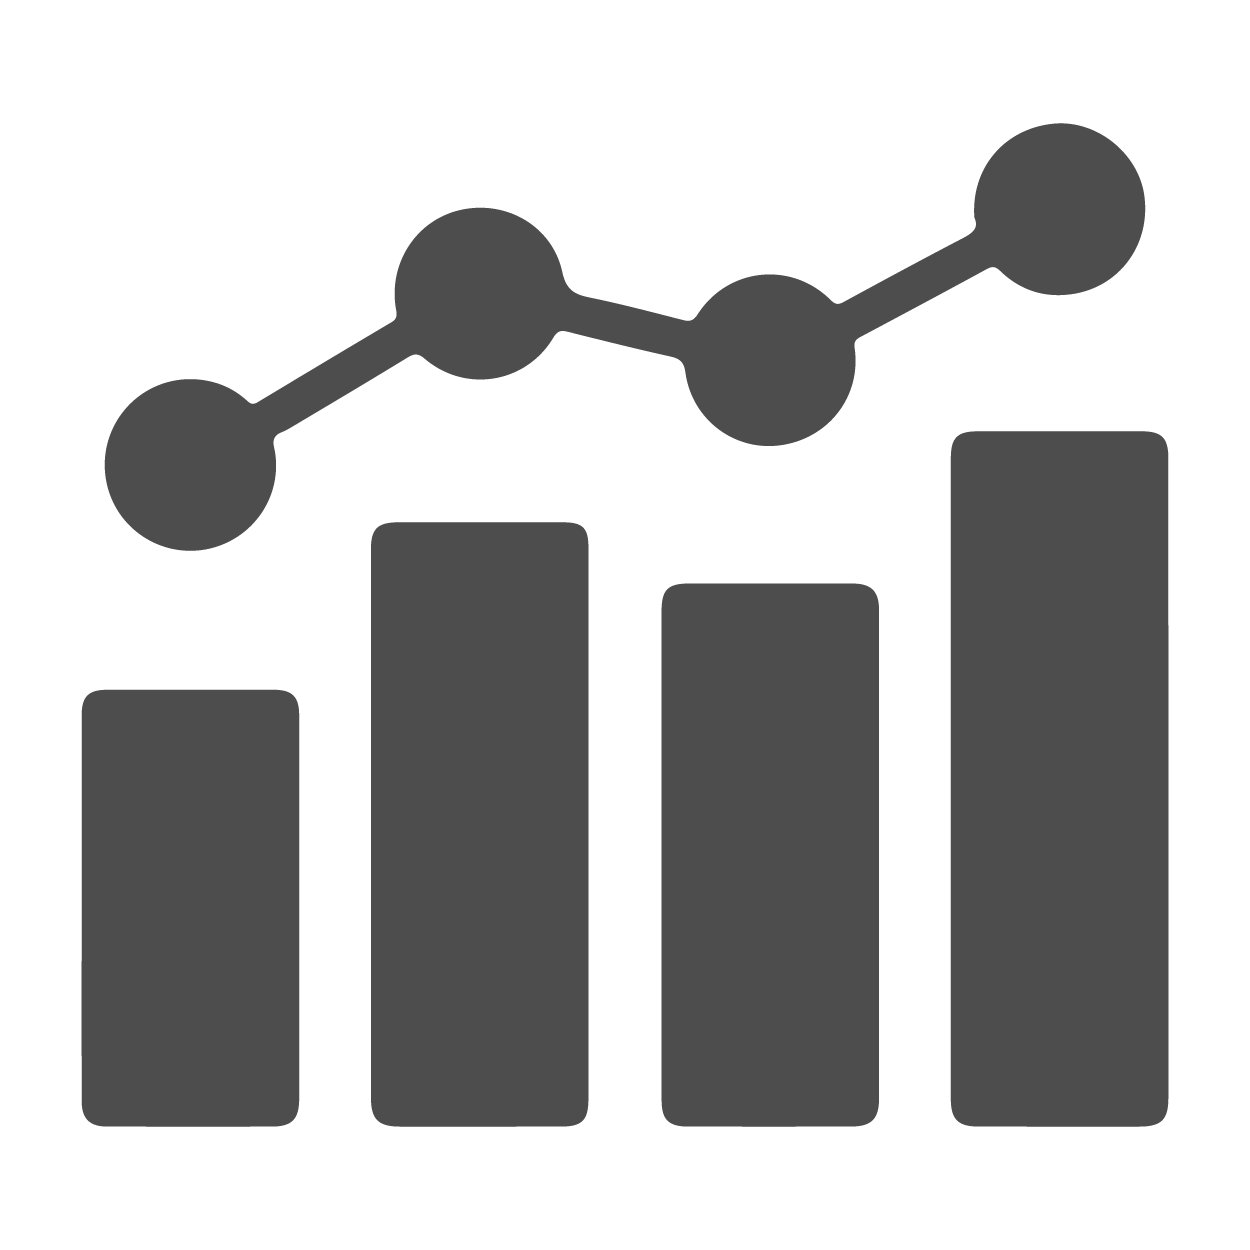
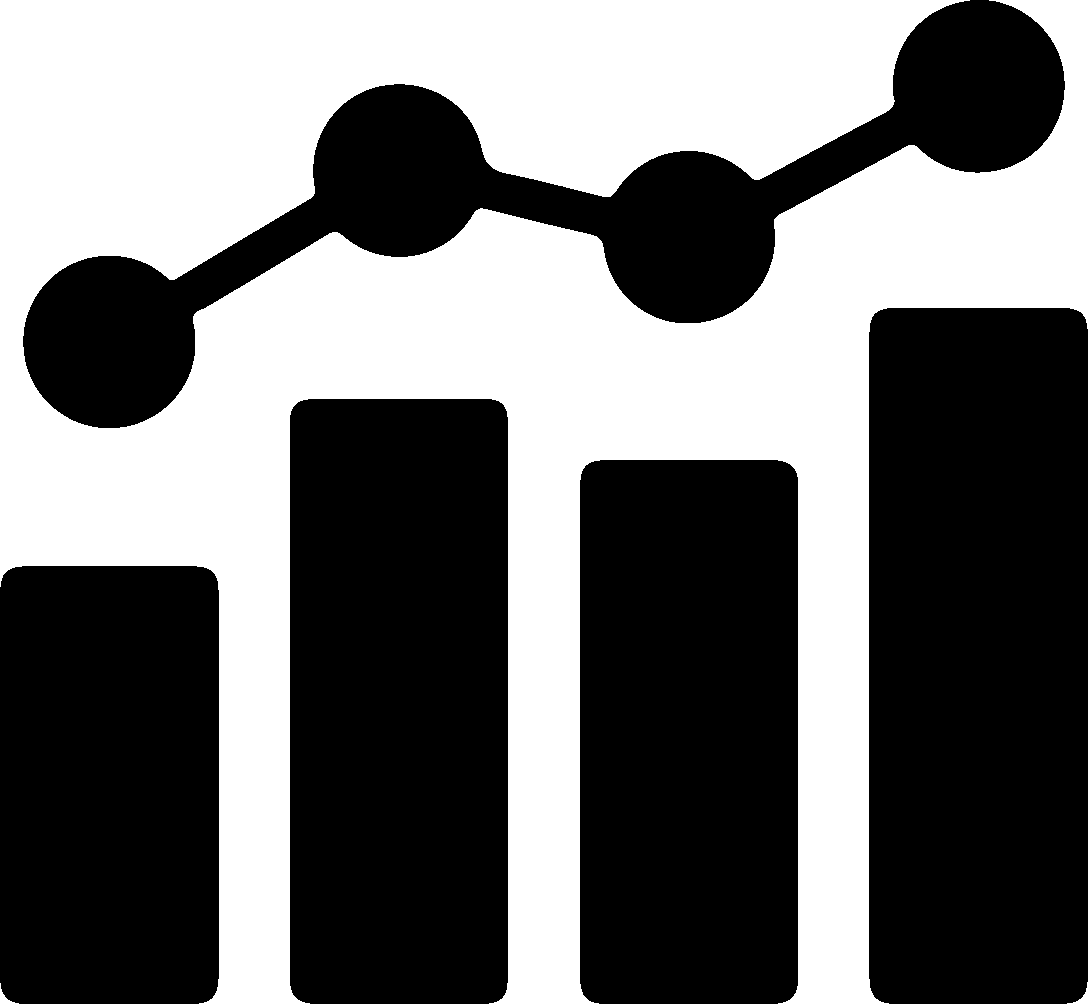
FIxed troubles
Даниил не ставь тегу body значение color!
Покрасил картинки, исправил две ссылки.

diff --git a/public/css/cabinetMenu.css b/public/css/cabinetMenu.css
@@ -15,7 +15,7 @@ body  {
 	background-size: cover;
 	height: 100vh;
 	width: 100%;
-  color: white;
+  color: #000;
 }
 
 
@@ -431,7 +431,7 @@ body  {
 }
 .Pets{
 	z-index: 4;
-	/*color: #000;*/
+	color: #000;
 	/*background: linear-gradient(180deg, #C5DDE8, #EECFBA);*/
 	background: #f5f5f5;
 	border-top: 1px solid #c9c9c9;

diff --git a/resources/views/home.blade.php b/resources/views/home.blade.php
@@ -55,7 +55,7 @@
             <h1 class="lc">Питомцы</h1>
             {{--v-on:mouseover="upHere = true" v-on:mouseleave="upHere = false"--}}
             <div class="addPet Pet col-xs-offset-2 col-xs-3">
-                <a href="{{route('addDog')}}"><img src="img/plus.png" alt=""></a>
+                <a href="{{route('addDog')}}"><img src="img/Plus.png" alt=""></a>
                 <nav class="cl-effect-1">
                         {{--v-show="upHere"--}}
                         <a  href="{{route('addDog')}}">Добавить</a>
@@ -75,14 +75,14 @@
             <h1 class="lc">Работа</h1>
             {{--v-on:mouseover="upHere = true" v-on:mouseleave="upHere = false"--}}
             <div class="addPet Pet col-xs-offset-2 col-xs-3">
-                <a href="{{route('addDog')}}"><img src="img/map.png" alt=""></a>
+                <a href="{{route('map')}}"><img src="img/map.png" alt=""></a>
                 <nav class="cl-effect-1">
                     {{--v-show="upHere"--}}
                     <a  href="{{route('map')}}">Взять заказ</a>
                 </nav>
             </div>
             <div class="watchPet Pet col-xs-offset-3 col-xs-3">
-                <a href="{{route('allDogs')}}"> <img src="img/stats.png" alt=""> </a>
+                <a href="#"> <img src="img/stats.png" alt=""> </a>
                 <nav class="cl-effect-1">
                     <a href="#">Статистика</a>
                 </nav>

diff --git a/resources/views/index.blade.php b/resources/views/index.blade.php
@@ -16,7 +16,7 @@
         <div id="about" class="row">
             <div class="col-xs-12 block_4">
                 <h2 class="items__h2">Почему мы вам нужны</h2>
-                <span class="items__span">Нередко бывают ситуации, когда мы не можем погулять с собакой:
+                <span class="items__span"><!-- Нередко бывают ситуации, когда мы не можем погулять с собакой: -->
                 Вы владелец собаки, и нередко бывают ситуации, когда некому погулять с питомцем?
                 Или, может быть, 
                 вы заинтересованы в выгуле питомцев и хотите стать волкером (от англ. Walk – гулять)?</span>
